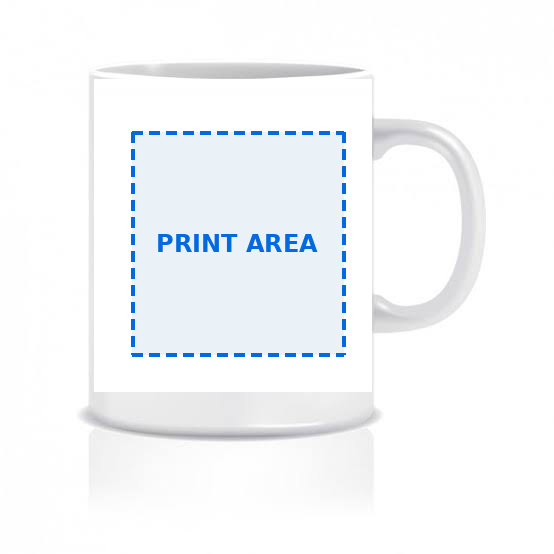
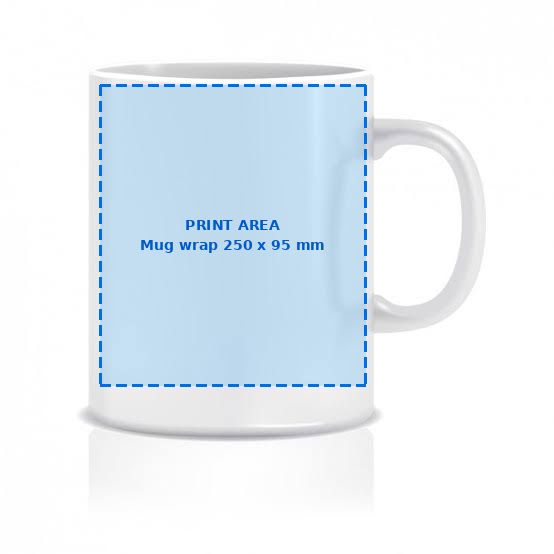
Revert mug print area to original (measured) zone

Changed region(s): [[0.1534, 0.1227, 0.6751, 0.7058]]

diff --git a/js/product.js b/js/product.js
@@ -2,7 +2,7 @@
 // Numbers are a share of the guide picture: x and y = top-left corner,
 // w and h = width and height. 0.5 means half of the picture.
 const ZONES = {
-    mug:    { x: 0.24, y: 0.24, w: 0.38, h: 0.40 },
+    mug:    { x: 0.18, y: 0.15, w: 0.48, h: 0.55 },
     shirt:  { x: 0.37, y: 0.30, w: 0.26, h: 0.41 },
     pillow: { x: 0.28, y: 0.18, w: 0.43, h: 0.64 },
   frame:  { x: 0.15, y: 0.15, w: 0.70, h: 0.70 }
